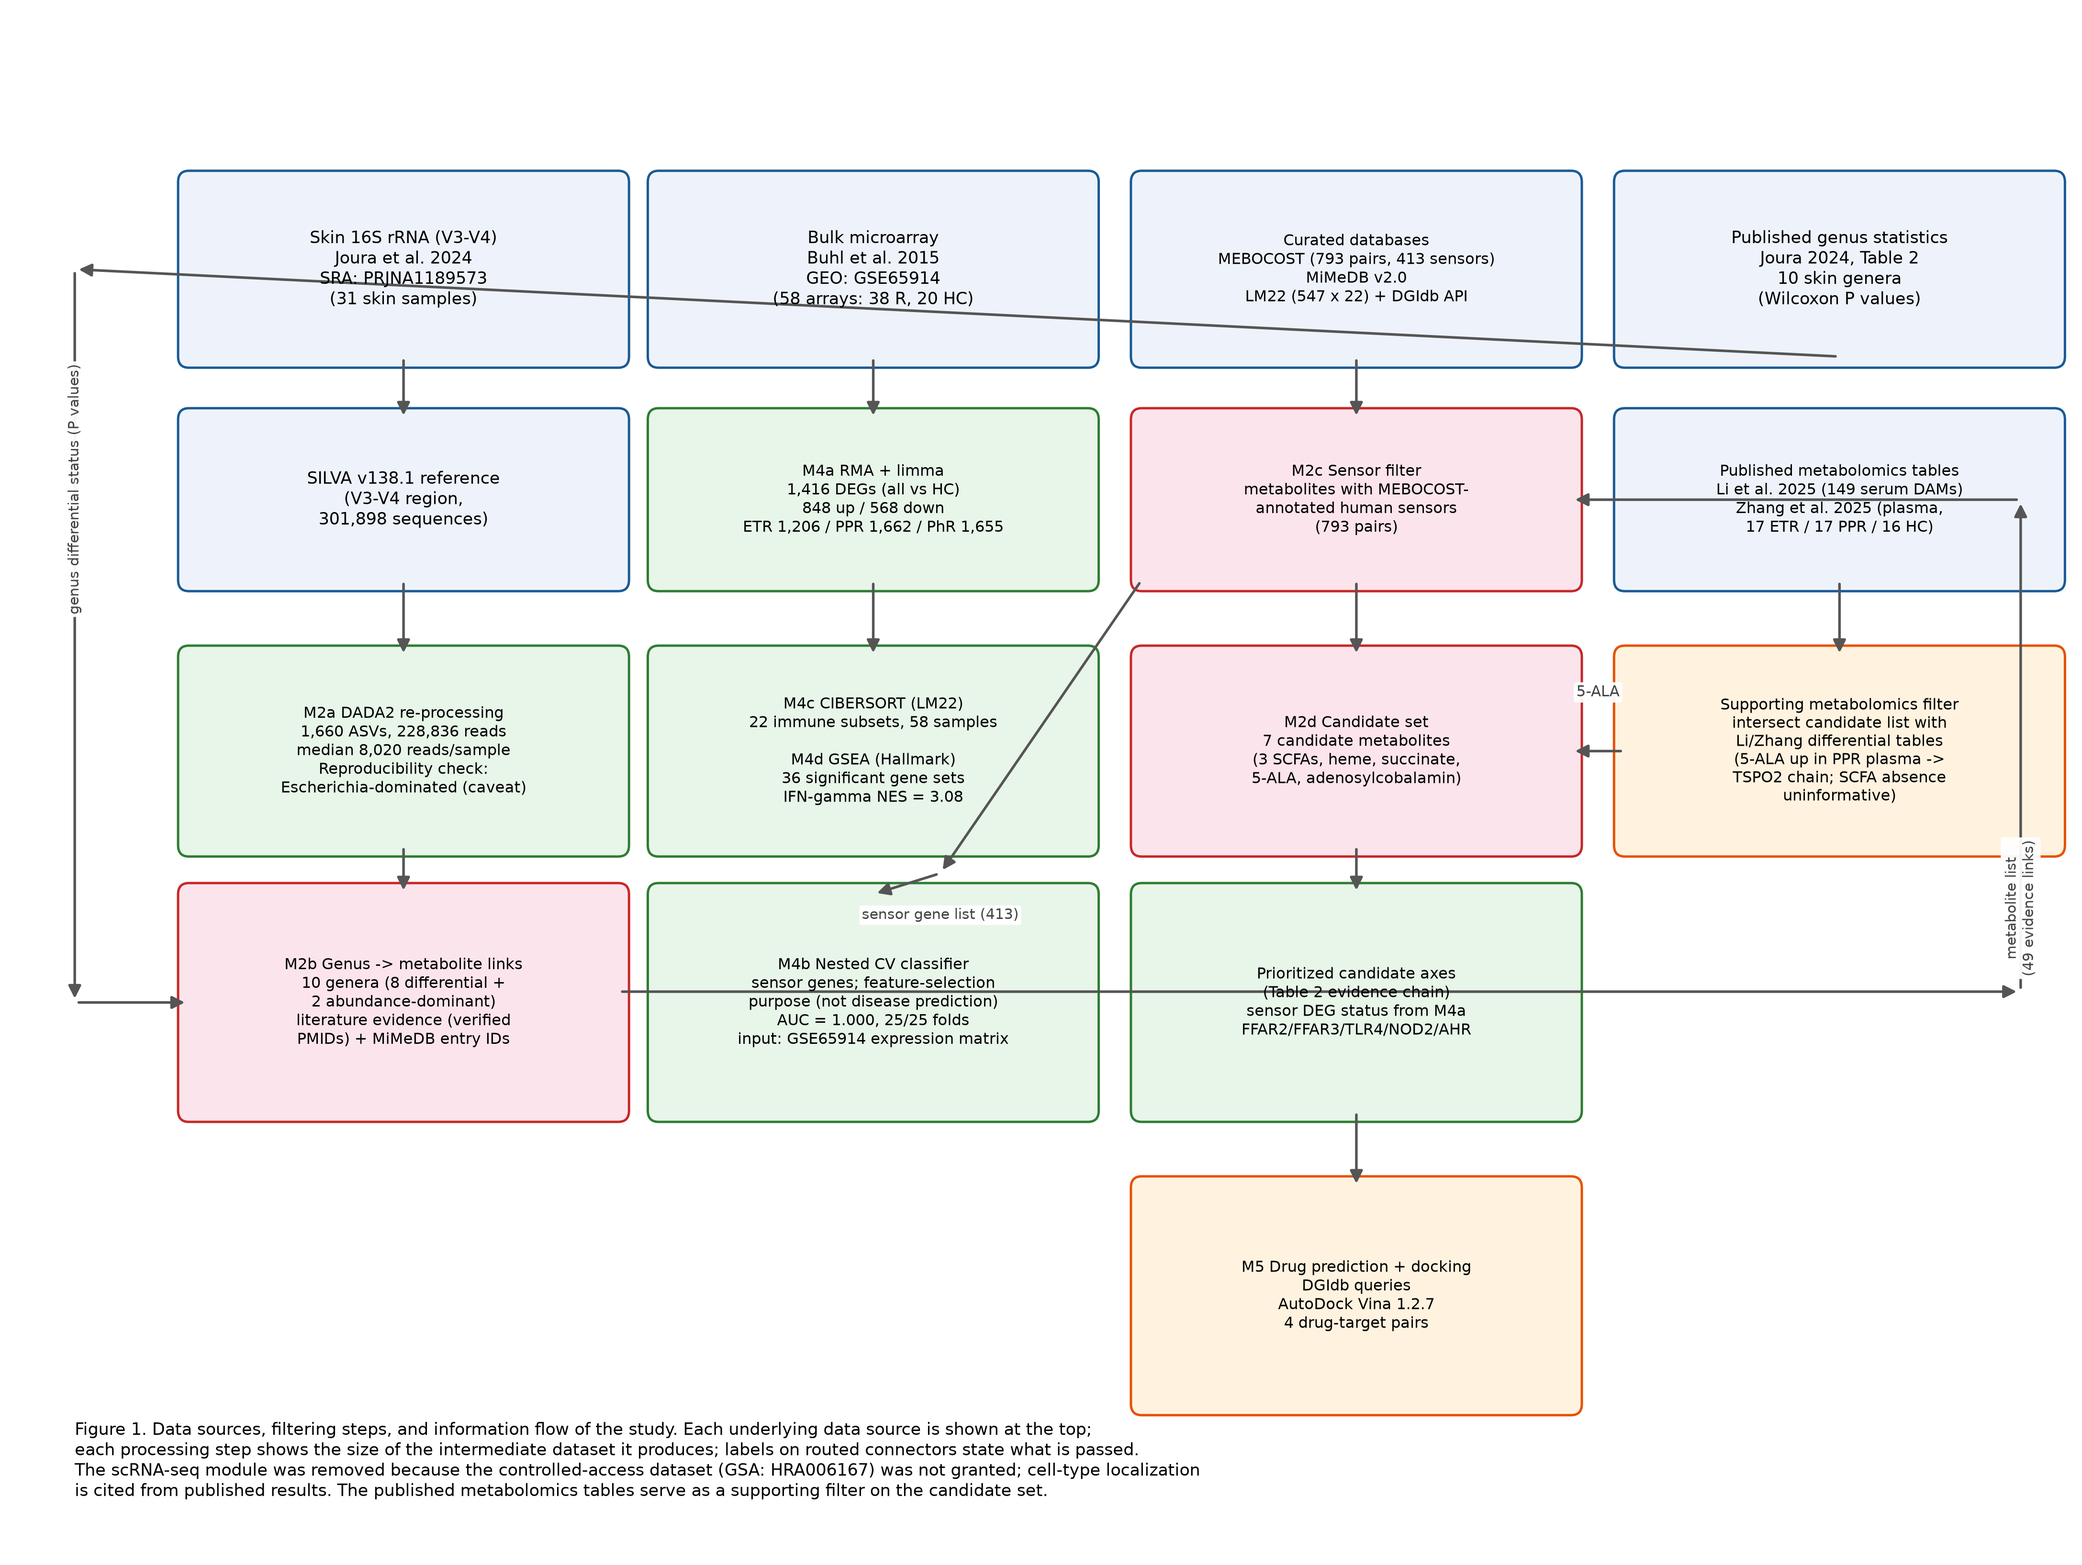
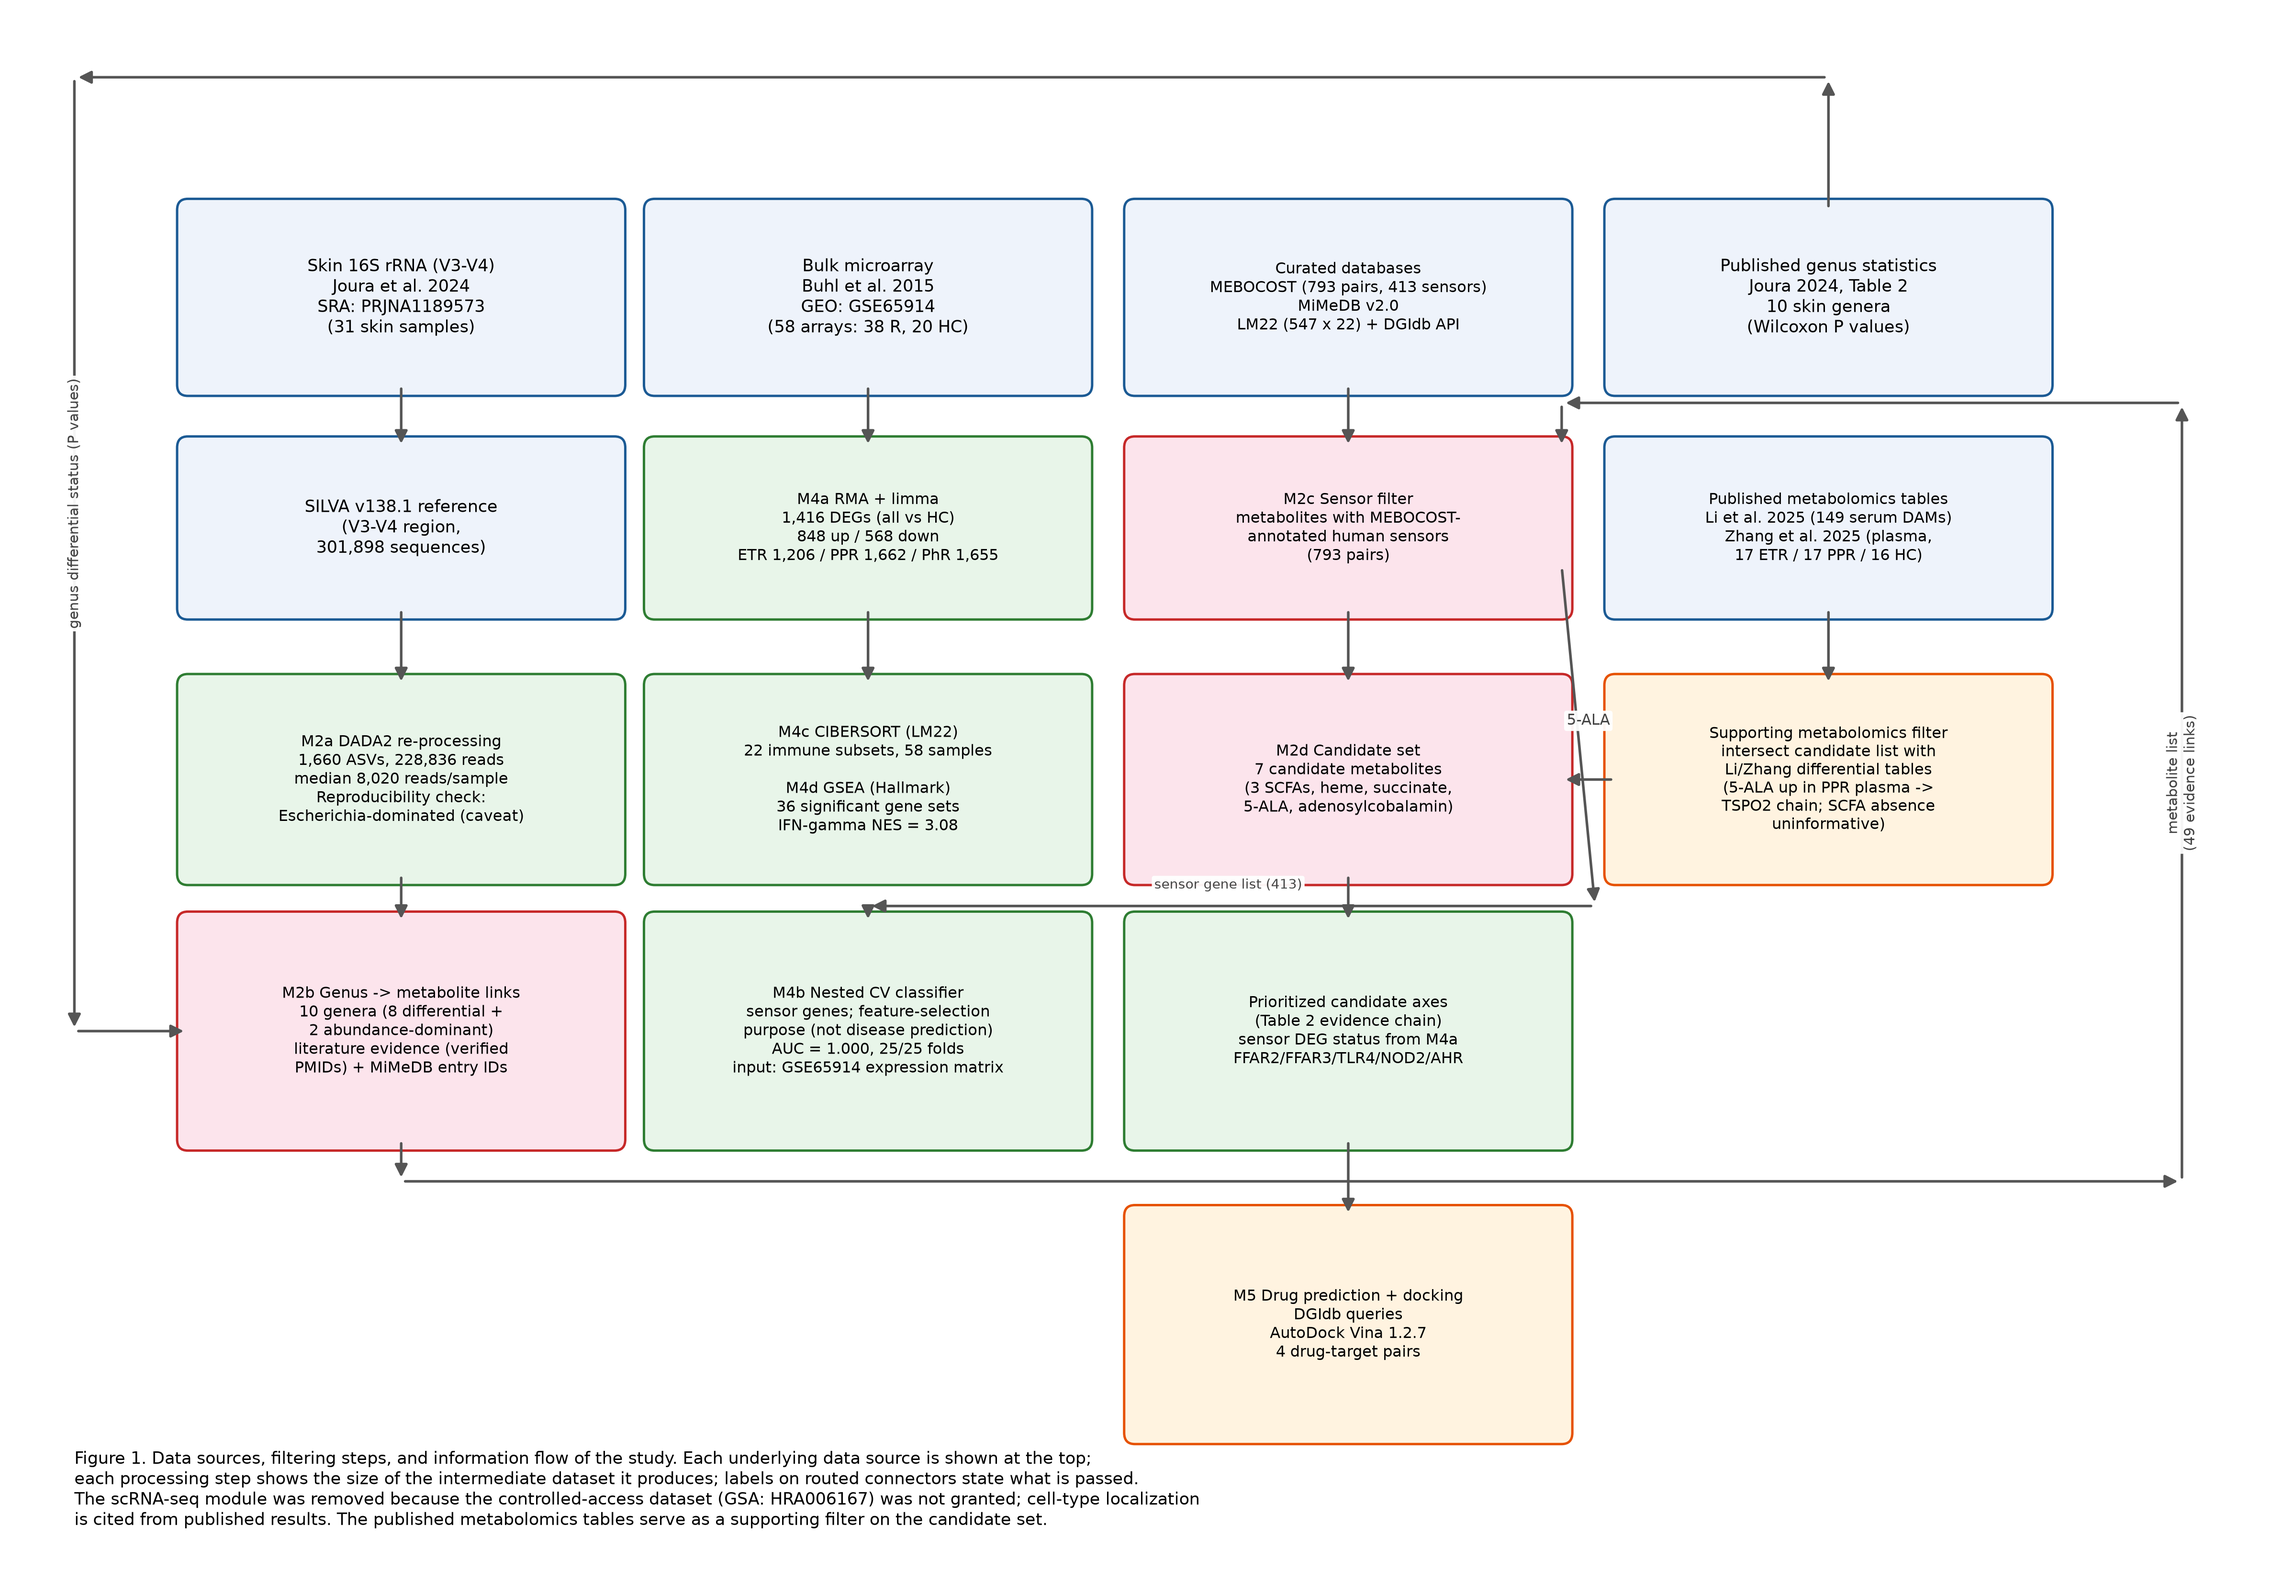
Figure 1: recalculate margin channels so no arrow crosses any box

diff --git a/scripts/figures/fig1_flowchart.py b/scripts/figures/fig1_flowchart.py
@@ -9,8 +9,8 @@ matplotlib.use("Agg")
 import matplotlib.pyplot as plt
 from matplotlib.patches import FancyBboxPatch, FancyArrowPatch
 
-fig, ax = plt.subplots(figsize=(14.6, 11), dpi=300)
-ax.set_xlim(-0.9, 14.4); ax.set_ylim(0, 11); ax.axis("off")
+fig, ax = plt.subplots(figsize=(16, 11.2), dpi=300)
+ax.set_xlim(-0.9, 16.0); ax.set_ylim(0, 11.2); ax.axis("off")
 
 def box(x, y, w, h, text, fc="#eef3fb", ec="#1b5a94", fs=8.5, lw=1.2):
     ax.add_patch(FancyBboxPatch((x, y), w, h, boxstyle="round,pad=0.08",
@@ -68,23 +68,27 @@ arrow(c4c, r2, c4c, r3+h3)
 arrow(c4, r3+h3/2, c3+w, r3+h3/2)
 flabel((c4+c3+w)/2, r3+h3/2+0.42, "5-ALA")
 
-# ================= routed connectors =================
-# published genus stats -> M2b (left-margin bus; three straight segments)
-arrow(c4c, r1, -0.45, r1+h1/2)
-arrow(-0.45, r1+h1/2, -0.45, r4+h4/2)
-arrow(-0.45, r4+h4/2, c1, r4+h4/2)
-flabel(-0.45, 7.6, "genus differential status (P values)", rot=90, fs=7.2)
+# ================= routed connectors (margin channels only; no box crossings) =================
+# 1) published genus stats -> M2b (over the top margin, down the left margin)
+arrow(c4c, r1+h1, c4c, 10.75)                       # up from pub-stats top
+arrow(c4c, 10.75, -0.45, 10.75)                     # across the top margin
+arrow(-0.45, 10.75, -0.45, r4+h4/2)                 # down the left margin
+arrow(-0.45, r4+h4/2, c1, r4+h4/2)                  # into M2b left edge
+flabel(-0.45, 7.7, "genus differential status (P values)", rot=90, fs=7.2)
 
-# M2b -> M2c (right-margin bus: metabolite list)
-arrow(c1+w, r4+h4*0.55, 14.05, r4+h4*0.55)
-arrow(14.05, r4+h4*0.55, 14.05, r2+h2/2)
-arrow(14.05, r2+h2/2, c3+w, r2+h2/2)
-flabel(14.05, 4.6, "metabolite list\n(49 evidence links)", rot=90, fs=7.2)
+# 2) M2b -> M2c (down, across the r4-r5 strip, up the right margin, over the r1-r2 strip, into M2c)
+arrow(c1c, r4, c1c, 2.85)                           # down from M2b bottom
+arrow(c1c, 2.85, 15.35, 2.85)                       # across the free strip below row 4
+arrow(15.35, 2.85, 15.35, 8.42)                     # up the right margin (right of all c4 boxes)
+arrow(15.35, 8.42, c3+w, 8.42)                      # across the free strip above row 2
+arrow(c3+w, 8.42, c3+w, r2+h2)                      # down into M2c right edge
+flabel(15.35, 5.7, "metabolite list\n(49 evidence links)", rot=90, fs=7.2)
 
-# M2c -> M4b (sensor gene list, through the empty strip between rows 3 and 4)
-arrow(c3, r2, 6.0, 4.85)
-arrow(6.0, 4.85, c2c, r4+h4)
-flabel(6.0, 4.55, "sensor gene list (413)", fs=7.2)
+# 3) M2c -> M4b (sensor gene list; via the gap between columns 3 and 4, then the r3-r4 strip)
+arrow(c3+w, r2+0.3, 10.95, 4.82)                    # down through the c3-c4 gap
+arrow(10.95, 4.82, c2c, 4.82)                       # left across the r3-r4 strip
+arrow(c2c, 4.82, c2c, r4+h4)                        # into M4b top edge
+flabel(8.2, 4.97, "sensor gene list (413)", fs=6.8)
 
 # M4a -> M4c/M4d is vertical (drawn above); M4a also feeds axes evidence via Table 2 text (no arrow)
 
